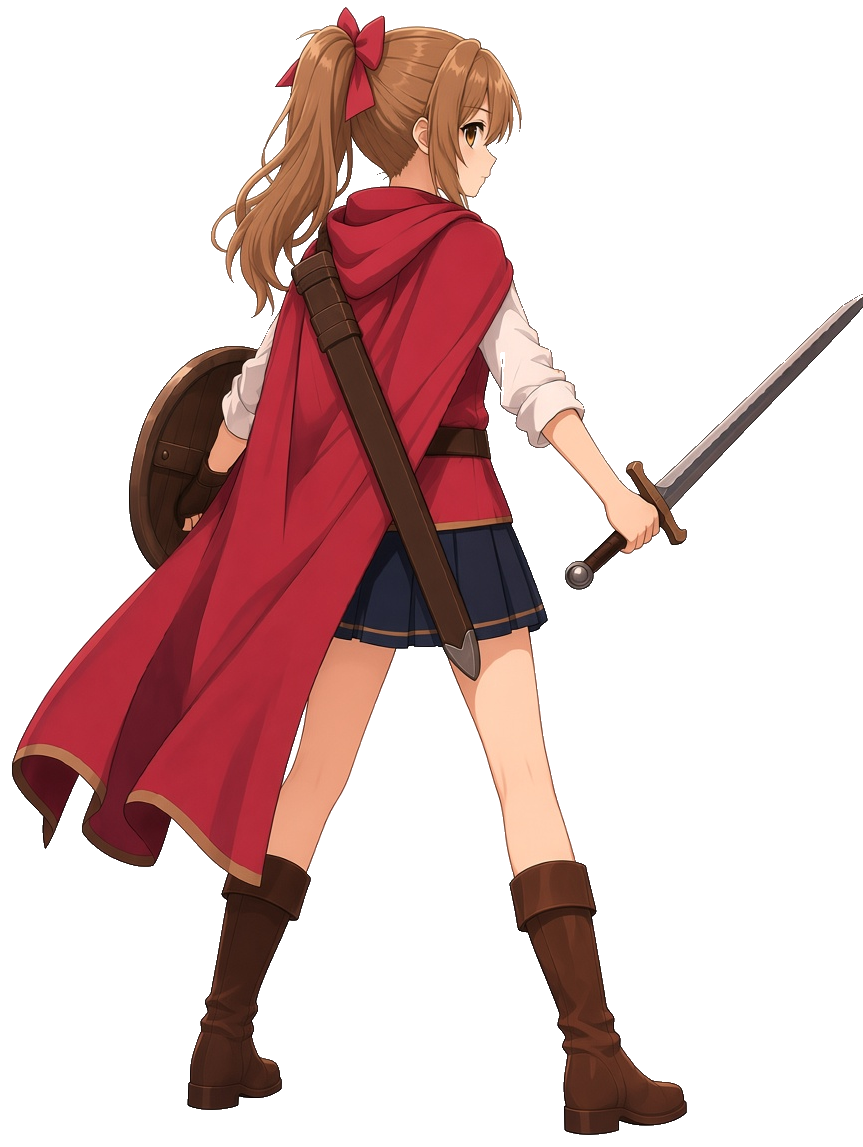
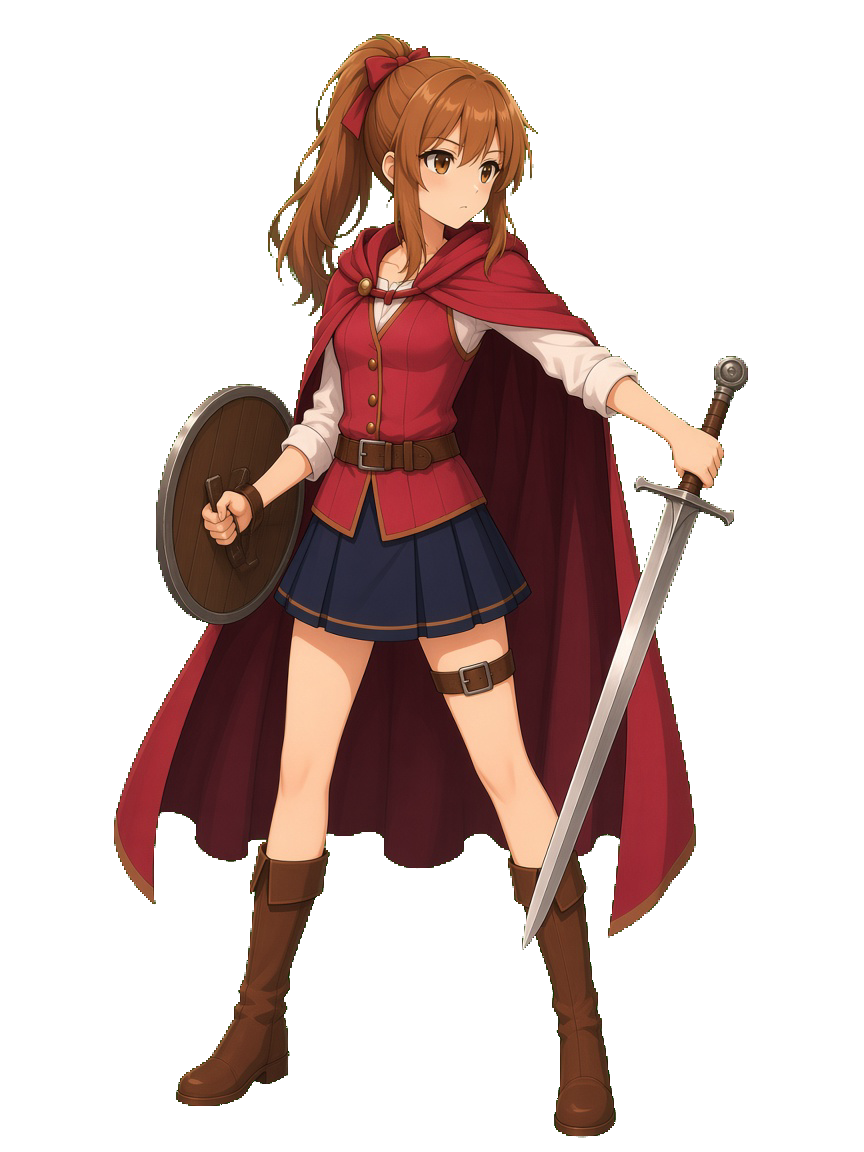
Name the female front as character design and add a side-view battle pose.

diff --git a/index.html b/index.html
@@ -4462,7 +4462,7 @@
     let castShown = "";
     const CAST = [
       { name: "戦士", stand: "job-front.png?v=5", chibi: "job-warrior.png?v=9", action: "job-action.jpg?v=3", battle: "hero-shoulder.png?v=25", battleRatio: "864 / 1152", defeat: "warrior-defeat.png?v=3", victory: "warrior-victory.png?v=3" },
-      { name: "女の戦士", stand: "girl-front.png?v=8", chibi: "job-girl.png?v=2", action: "girl-action.jpg?v=1", battle: "girl-battle.png?v=8", battleRatio: "863 / 1147", defeat: "girl-defeat.png?v=6", victory: "girl-victory.png?v=7" },
+      { name: "女の戦士", stand: "girl-front.png?v=9", chibi: "job-girl.png?v=2", action: "girl-action.jpg?v=1", battle: "girl-battle.png?v=9", battleRatio: "864 / 1152", defeat: "girl-defeat.png?v=6", victory: "girl-victory.png?v=7" },
     ];
     let heroCast = "戦士";
     function heroItem() { return castByName(heroCast); }
@@ -7437,8 +7437,8 @@
             </div>
             <h3>女の戦士</h3>
             <div class="ref-grid pose-grid">
-              ${sheetFig("girl-front.png?v=8", "正面", "cut-ref")}
-              ${sheetFig("girl-battle.png?v=8", "戦闘（ポケモンの画角）", "cut-ref")}
+              ${sheetFig("girl-front.png?v=9", "キャラデザ", "cut-ref")}
+              ${sheetFig("girl-battle.png?v=9", "戦闘", "cut-ref")}
               ${sheetFig("girl-defeat.png?v=6", "敗北", "cut-ref")}
               ${sheetFig("girl-victory.png?v=7", "勝利", "cut-ref")}
             </div>
@@ -7449,7 +7449,7 @@
               ${sheetFig("job-action.jpg?v=3", "戦士の一枚絵", "land-ref", "span-2")}
             </div>
             <div class="ref-grid">
-              ${sheetFig("girl-front.png?v=8", "女の戦士の立ち絵", "cut-ref")}
+              ${sheetFig("girl-front.png?v=9", "女の戦士の立ち絵", "cut-ref")}
               ${sheetFig("girl-action.jpg?v=1", "女の戦士の一枚絵", "land-ref", "span-2")}
             </div>
             <div class="ref-grid">
